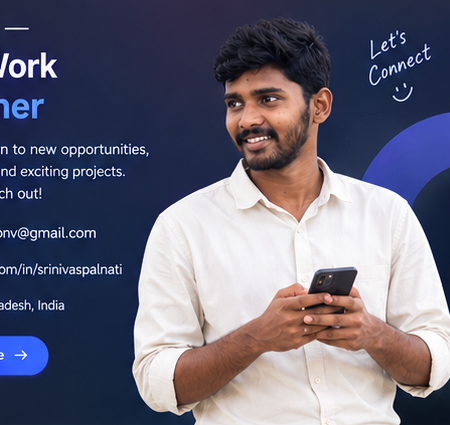
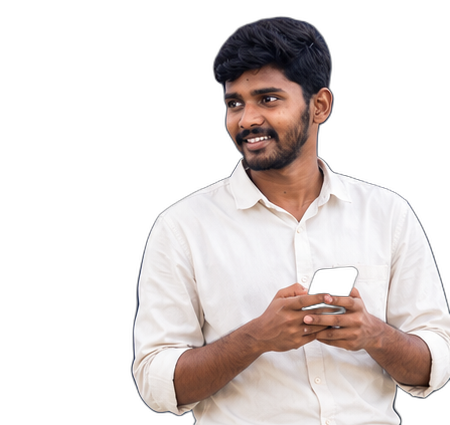
feat: convert all persona images to clean 2D transparent cutouts with studio framing

diff --git a/src/components/About.jsx b/src/components/About.jsx
@@ -57,18 +57,18 @@ export default function About({ onOpenResume }) {
                 </span>
               </div>
 
-              {/* Portrait Frame */}
-              <div className="mt-5 w-full aspect-[4/3.8] rounded-2xl overflow-hidden bg-zinc-950 border border-white/15 relative shadow-inner">
+              {/* Portrait Frame - 2D Transparent Cutout */}
+              <div className="mt-5 w-full aspect-[4/3.8] rounded-2xl overflow-hidden bg-gradient-to-b from-zinc-900/60 via-zinc-950/90 to-zinc-950 border border-white/15 relative shadow-inner flex items-end justify-center">
                 <img 
                   src="/persona/about_pointing.png" 
                   alt="Palnati Pushpa Naga Venkata Srinivas" 
-                  className="w-full h-full object-cover object-[center_15%] group-hover:scale-105 transition-transform duration-700 ease-out" 
+                  className="w-full h-[96%] object-contain object-bottom drop-shadow-[0_12px_22px_rgba(0,0,0,0.85)] group-hover:scale-105 transition-transform duration-700 ease-out z-10" 
                 />
-                <div className="absolute top-2.5 right-2.5 px-2 py-0.5 rounded-full bg-[#FF2A2A]/80 border border-white/20 text-[9px] font-mono font-bold text-white shadow-lg backdrop-blur-md">
+                <div className="absolute top-2.5 right-2.5 px-2 py-0.5 rounded-full bg-[#FF2A2A]/80 border border-white/20 text-[9px] font-mono font-bold text-white shadow-lg backdrop-blur-md z-20">
                   That's Me! 👈
                 </div>
-                <div className="absolute inset-0 bg-gradient-to-t from-black/80 via-transparent to-transparent pointer-events-none" />
-                <div className="absolute bottom-3 left-3 right-3 flex items-center justify-between text-[11px] font-mono">
+                <div className="absolute inset-0 bg-gradient-to-t from-black/80 via-transparent to-transparent pointer-events-none z-15" />
+                <div className="absolute bottom-3 left-3 right-3 flex items-center justify-between text-[11px] font-mono z-20">
                   <span className="px-2 py-0.5 rounded-md bg-black/70 border border-white/20 text-white backdrop-blur-md">
                     Palnati Srinivas
                   </span>

diff --git a/src/components/Hero.jsx b/src/components/Hero.jsx
@@ -365,15 +365,17 @@ export default function Hero({ onOpenResume }) {
                 {/* Inner Card Body */}
                 <div className="relative w-full h-full rounded-[2.4rem] overflow-hidden bg-zinc-950 flex flex-col justify-between">
                   
-                  {/* High-Resolution Developer Portrait */}
-                  <img
-                    src="/persona/hero_suit.png"
-                    alt="Palnati Pushpa Naga Venkata Srinivas"
-                    className="absolute inset-0 w-full h-full object-cover object-[center_12%] brightness-105 scale-100 group-hover:scale-105 transition-transform duration-700 ease-out"
-                  />
+                  {/* High-Resolution Developer Portrait - 2D Transparent Cutout */}
+                  <div className="absolute inset-0 bg-gradient-to-b from-zinc-900/60 via-zinc-950/80 to-zinc-950 flex items-end justify-center">
+                    <img
+                      src="/persona/hero_suit.png"
+                      alt="Palnati Pushpa Naga Venkata Srinivas"
+                      className="w-full h-[95%] object-contain object-bottom brightness-105 drop-shadow-[0_15px_25px_rgba(0,0,0,0.85)] scale-100 group-hover:scale-105 transition-transform duration-700 ease-out z-10"
+                    />
+                  </div>
 
                   {/* Smooth Studio Vignette Overlay */}
-                  <div className="absolute inset-0 bg-gradient-to-t from-black/90 via-transparent to-black/40 pointer-events-none" />
+                  <div className="absolute inset-0 bg-gradient-to-t from-black/80 via-transparent to-transparent pointer-events-none z-15" />
 
                   {/* Subtle Interactive Glare */}
                   <motion.div 

diff --git a/src/components/Skills.jsx b/src/components/Skills.jsx
@@ -326,11 +326,11 @@ export default function Skills({ onOpenResume }) {
           {/* Persona Card: Code • Build • Repeat */}
           <div className="lg:col-span-4 flex justify-center lg:justify-end">
             <div className="relative group p-3.5 rounded-3xl bg-zinc-950/80 border border-white/10 hover:border-[#FF2A2A]/40 transition-all shadow-xl flex items-center gap-4 max-w-sm w-full">
-              <div className="w-24 h-24 sm:w-28 sm:h-28 rounded-2xl overflow-hidden border border-white/10 shrink-0 bg-zinc-900">
+              <div className="w-24 h-24 sm:w-28 sm:h-28 rounded-2xl overflow-hidden border border-white/10 shrink-0 bg-gradient-to-b from-zinc-800/40 via-zinc-900/60 to-zinc-950 flex items-end justify-center p-1">
                 <img 
                   src="/persona/skills_coding.png" 
                   alt="Srinivas Palnati - Code Build Repeat" 
-                  className="w-full h-full object-cover object-top group-hover:scale-105 transition-transform duration-500"
+                  className="w-full h-full object-contain object-bottom drop-shadow-[0_8px_16px_rgba(0,0,0,0.8)] group-hover:scale-105 transition-transform duration-500 z-10"
                 />
               </div>
               <div className="text-left space-y-1">

diff --git a/src/components/Projects.jsx b/src/components/Projects.jsx
@@ -146,11 +146,11 @@ export default function Projects() {
           {/* Builder Spotlight Persona Card */}
           <div className="lg:col-span-4 flex justify-center lg:justify-end">
             <div className="relative group p-3.5 rounded-3xl bg-zinc-950/80 border border-white/10 hover:border-[#FF2A2A]/40 transition-all shadow-xl flex items-center gap-4 max-w-sm w-full">
-              <div className="w-24 h-24 sm:w-28 sm:h-28 rounded-2xl overflow-hidden border border-white/10 shrink-0 bg-zinc-900">
+              <div className="w-24 h-24 sm:w-28 sm:h-28 rounded-2xl overflow-hidden border border-white/10 shrink-0 bg-gradient-to-b from-zinc-800/40 via-zinc-900/60 to-zinc-950 flex items-end justify-center p-1">
                 <img 
                   src="/persona/projects_builder.png" 
                   alt="Srinivas Palnati - Building Ideas into Impact" 
-                  className="w-full h-full object-cover group-hover:scale-105 transition-transform duration-500"
+                  className="w-full h-full object-contain object-bottom drop-shadow-[0_8px_16px_rgba(0,0,0,0.8)] group-hover:scale-105 transition-transform duration-500 z-10"
                 />
               </div>
               <div className="text-left space-y-1">

diff --git a/src/components/Footer.jsx b/src/components/Footer.jsx
@@ -93,11 +93,11 @@ export default function Footer({ onOpenResume }) {
           {/* Persona Card: Let's Connect */}
           <div className="lg:col-span-4 flex justify-center lg:justify-end">
             <div className="relative group p-3.5 rounded-3xl bg-zinc-950/80 border border-white/10 hover:border-[#FF2A2A]/40 transition-all shadow-xl flex items-center gap-4 max-w-sm w-full">
-              <div className="w-24 h-24 sm:w-28 sm:h-28 rounded-2xl overflow-hidden border border-white/10 shrink-0 bg-zinc-900">
+              <div className="w-24 h-24 sm:w-28 sm:h-28 rounded-2xl overflow-hidden border border-white/10 shrink-0 bg-gradient-to-b from-zinc-800/40 via-zinc-900/60 to-zinc-950 flex items-end justify-center p-1">
                 <img 
                   src="/persona/contact_connect.png" 
                   alt="Srinivas Palnati - Let's Connect" 
-                  className="w-full h-full object-cover group-hover:scale-105 transition-transform duration-500"
+                  className="w-full h-full object-contain object-bottom drop-shadow-[0_8px_16px_rgba(0,0,0,0.8)] group-hover:scale-105 transition-transform duration-500 z-10"
                 />
               </div>
               <div className="text-left space-y-1">

diff --git a/scripts/remove_bg.py b/scripts/remove_bg.py
@@ -1,0 +1,33 @@
+import os
+from PIL import Image
+import rembg
+
+session = rembg.new_session('u2net_human_seg')
+
+persona_files = [
+    "hero_suit.png",
+    "about_pointing.png",
+    "skills_coding.png",
+    "projects_builder.png",
+    "contact_connect.png"
+]
+
+input_dir = "public/persona"
+
+for filename in persona_files:
+    input_path = os.path.join(input_dir, filename)
+    if not os.path.exists(input_path):
+        print(f"File not found: {input_path}")
+        continue
+    
+    print(f"Processing {filename}...")
+    img = Image.open(input_path).convert("RGBA")
+    
+    # Process with rembg
+    result = rembg.remove(img, session=session)
+    
+    # Save back to output path as transparent PNG
+    result.save(input_path, "PNG")
+    print(f"Successfully saved transparent 2D cutout: {input_path} (Size: {result.size})")
+
+print("All persona images processed successfully!")
